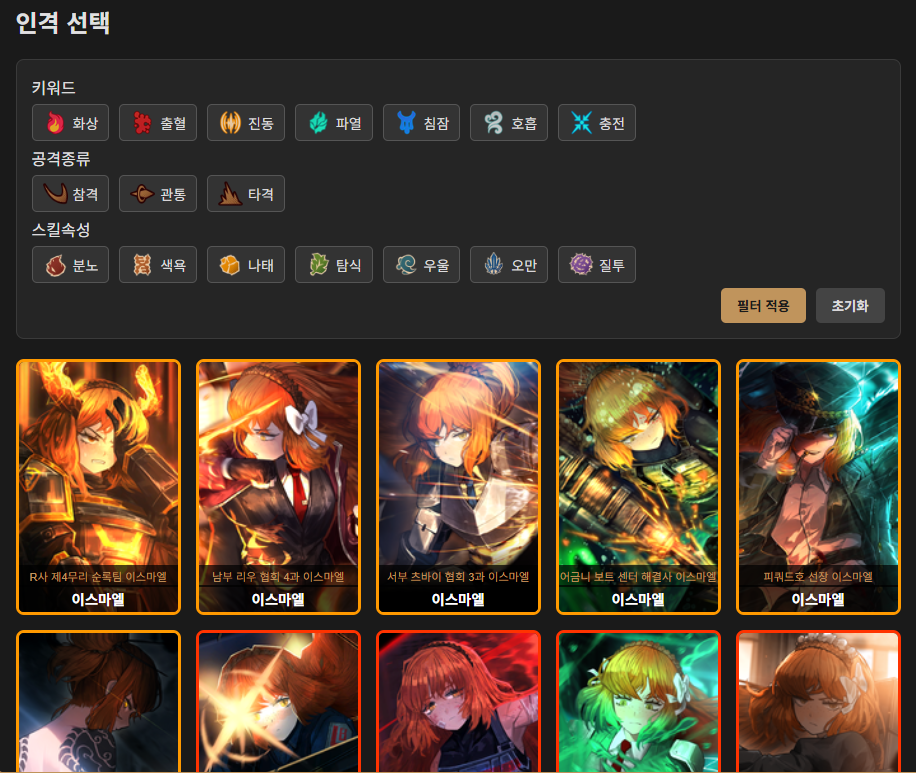
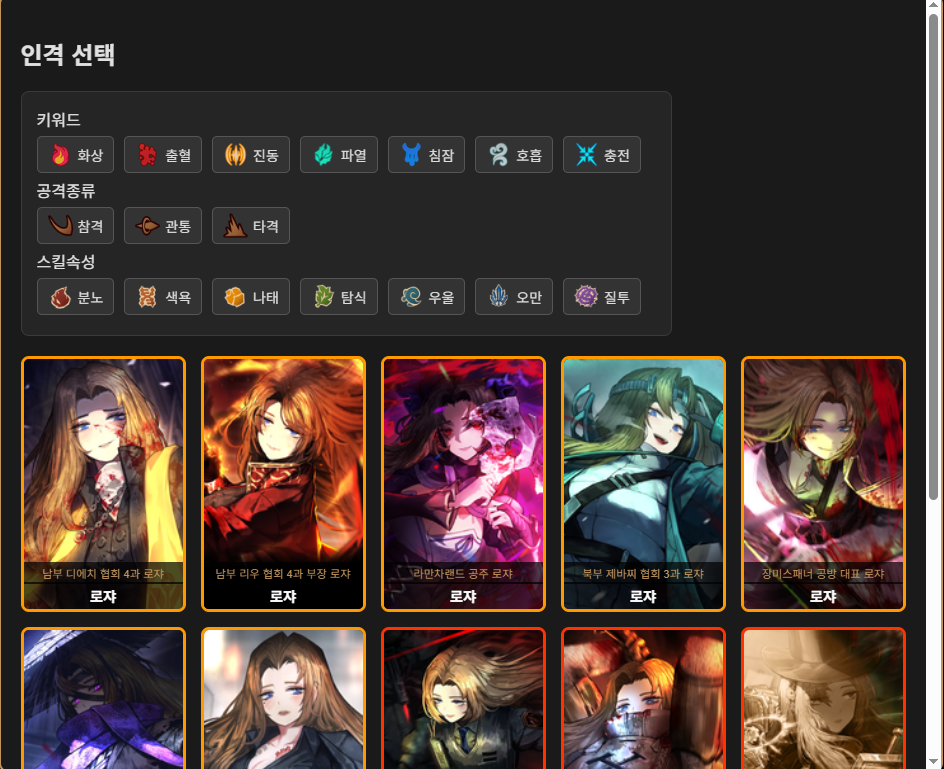
인격 선택 이미지 변경, 최종 업데이트 날짜 변경

diff --git a/src/main/resources/templates/main.html b/src/main/resources/templates/main.html
@@ -727,13 +727,13 @@
 
 <footer class="wiki-footer">
     <div class="footer-links">
-        <a href="https://github.com/keede7/mylimbus" class="footer-link">위키 기여하기</a>
+        <a href="https://github.com/keede7/mylimbus" class="footer-link">프로젝트 기여하기</a>
     </div>
     <div class="footer-info">
         <p>문의 사항 : wesaq11@gmail.com</p>
         <p>모든 게임 관련 콘텐츠와 자료는 Project Moon에 저작권이 있습니다.</p>
         <p>© <span th:text="${#dates.format(#dates.createNow(), 'yyyy')}">2025</span>
-            최종 업데이트: <span>2025-05-06</span></p>
+            최종 업데이트: <span>2025-05-22</span></p>
     </div>
 </footer>
 
